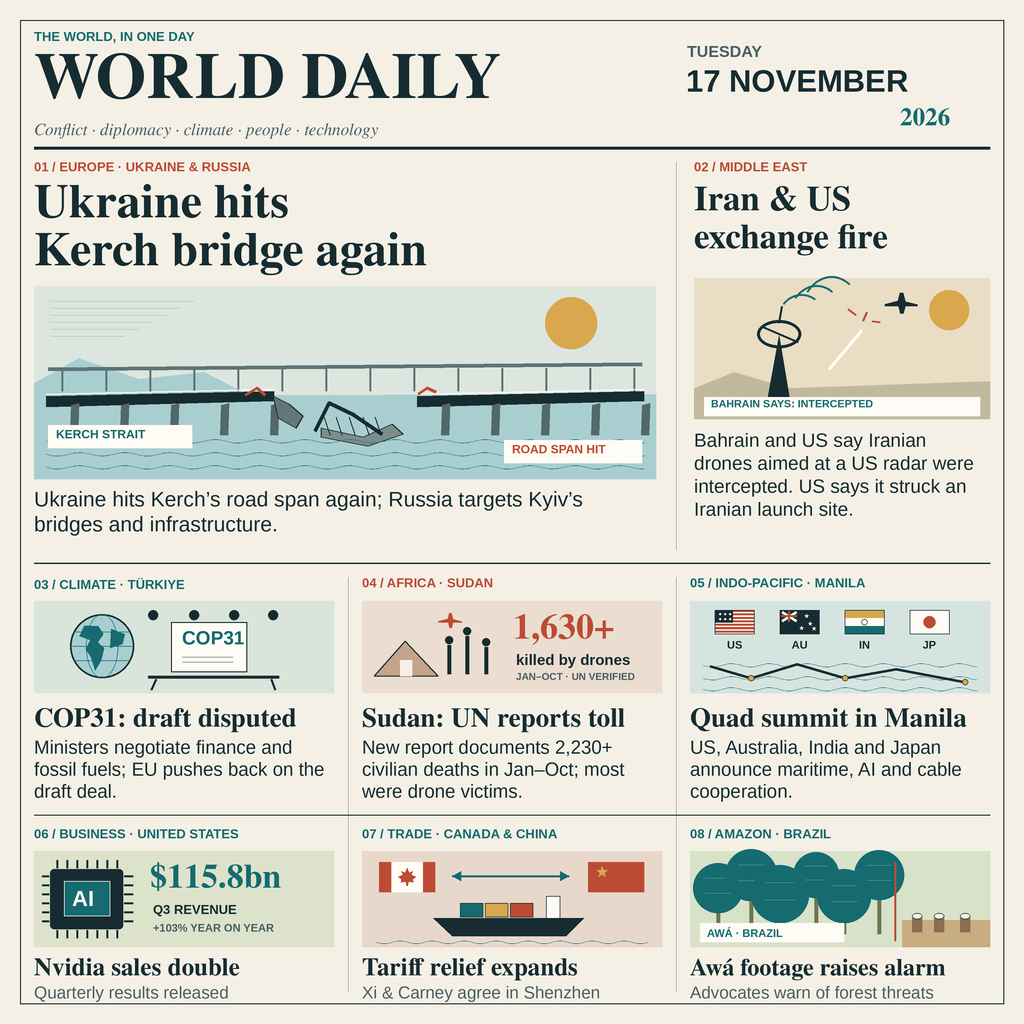
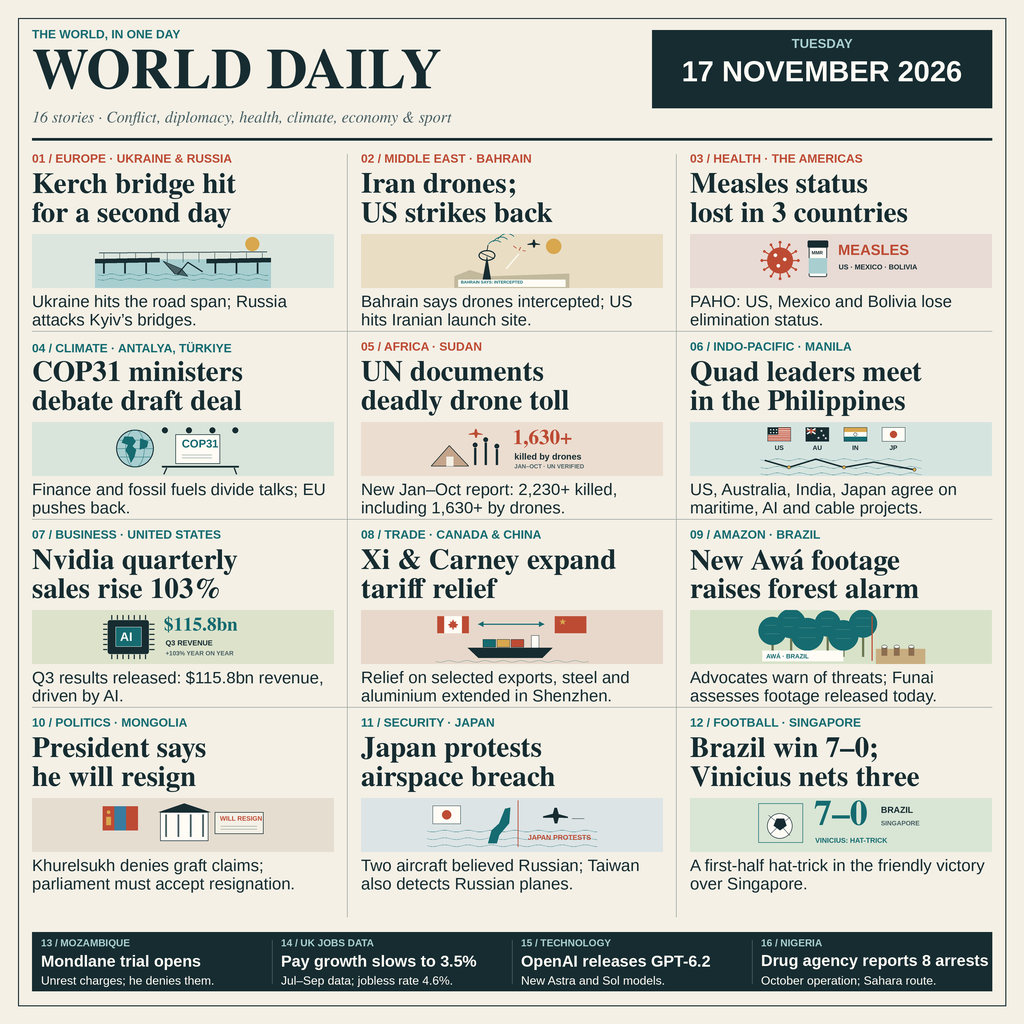
Broaden daily front page to sixteen sourced stories

diff --git a/render.py b/render.py
@@ -316,58 +316,188 @@ def forest_scene(x,y,w,h):
     text(x+17,y+76,'AWÁ · BRAZIL',11,'bold',TEAL)
 
 
-# One typographic system and aligned newspaper columns.
-box((20,20,1004,1004),None,INK,1)
-category(34,32,'THE WORLD, IN ONE DAY')
-text(34,53,'WORLD DAILY',65,'title')
-text(687,46,'TUESDAY',16,'bold',MUTED)
-text(686,70,'17 NOVEMBER',31,'bold')
-text(900,108,'2026',25,'title',TEAL)
-text(34,123,'Conflict · diplomacy · climate · people · technology',17,'italic',MUTED)
-line([(34,148),(990,148)],INK,3)
+def small_bridge(x,y,w,h):
+    box((x,y,x+w,y+h), '#DDE6DE')
+    sun(x+w-32,y+17,12)
+    box((x,y+43,x+w,y+h),SEA)
+    line([(x+7,y+32),(x+w-7,y+30)],MUTED,2)
+    for xx in range(15,int(w),27):
+        line([(x+xx,y+32),(x+xx,y+48)],MUTED,1)
+    for a,b in [(0,110),(190,w)]:
+        line([(x+a,y+46),(x+b,y+44)],INK,8)
+        for xx in range(a+15,int(b),36):
+            line([(x+xx,y+49),(x+xx,y+67)],INK,3)
+    poly([(x+116,y+46),(x+147,y+59),(x+158,y+72),
+          (x+136,y+68)],MUTED,INK)
+    line([(x+140,y+69),(x+158,y+48),(x+183,y+64)],INK,2)
+    for yy in [69,77]:wave(x+5,y+yy,w-10,TEAL,1.5,31,.7)
 
-category(34,162,'01 / EUROPE · UKRAINE & RUSSIA',RED)
-text(34,184,'Ukraine hits',48,'title')
-text(34,232,'Kerch bridge again',48,'title')
-bridge_scene(34,286,622,193)
-paragraph(34,491,'Ukraine hits Kerch’s road span again; Russia targets Kyiv’s bridges and infrastructure.',622,21,25)
 
-line([(676,162),(676,550)],RULE,.8)
-category(694,162,'02 / MIDDLE EAST',RED)
-text(694,186,'Iran & US',35,'title')
-text(694,224,'exchange fire',35,'title')
-gulf_scene(694,278,296,141)
-paragraph(694,433,'Bahrain and US say Iranian drones aimed at a US radar were intercepted. US says it struck an Iranian launch site.',294,19,23)
+def health_scene(x,y,w,h):
+    box((x,y,x+w,y+h),'#E8DAD4')
+    # Virus symbol and a vaccine vial, not a clinical reconstruction.
+    cx,cy=x+46,y+45
+    for a in range(12):
+        ang=a*pi/6
+        line([(cx+cos(ang)*21,cy+sin(ang)*21),
+              (cx+cos(ang)*31,cy+sin(ang)*31)],RED,2)
+        sun(cx+cos(ang)*31,cy+sin(ang)*31,2.3,RED)
+    ellipse((cx-22,cy-22,cx+22,cy+22),RED)
+    for a,b in [(-8,-9),(8,-2),(-3,9)]:sun(cx+a,cy+b,3,WHITE)
+    box((x+95,y+16,x+126,y+73),WHITE,INK,1.2,radius=3)
+    box((x+93,y+11,x+128,y+23),INK,radius=2)
+    box((x+95,y+41,x+126,y+67),SEA)
+    text(x+100,y+29,'MMR',8,'bold')
+    text(x+145,y+18,'MEASLES',25,'bold',RED)
+    text(x+146,y+52,'US · MEXICO · BOLIVIA',12,'bold')
 
-line([(34,563),(990,563)],INK,1.5)
-colx=[34,362,690]
-for xx in [348,676]:line([(xx,577),(xx,992)],RULE,.8)
-category(34,578,'03 / CLIMATE · TÜRKIYE')
-category(362,578,'04 / AFRICA · SUDAN',RED)
-category(690,578,'05 / INDO-PACIFIC · MANILA')
-cop_scene(34,601,300,92)
-sudan_scene(362,601,300,92)
-quad_scene(690,601,300,92)
-text(34,708,'COP31: draft disputed',27,'title')
-paragraph(34,740,'Ministers negotiate finance and fossil fuels; EU pushes back on the draft deal.',300,18.5,22)
-text(362,708,'Sudan: UN reports toll',27,'title')
-paragraph(362,740,'New report documents 2,230+ civilian deaths in Jan–Oct; most were drone victims.',300,18.5,22)
-text(690,708,'Quad summit in Manila',27,'title')
-paragraph(690,740,'US, Australia, India and Japan announce maritime, AI and cable cooperation.',300,18.5,22)
 
-line([(34,815),(990,815)],INK,1)
-category(34,829,'06 / BUSINESS · UNITED STATES')
-category(362,829,'07 / TRADE · CANADA & CHINA')
-category(690,829,'08 / AMAZON · BRAZIL')
-chip_scene(34,851,300,96)
-trade_scene(362,851,300,96)
-forest_scene(690,851,300,96)
-text(34,958,'Nvidia sales double',25,'title')
-text(362,958,'Tariff relief expands',25,'title')
-text(690,958,'Awá footage raises alarm',24,'title')
-text(34,986,'Quarterly results released',17,'sans',MUTED)
-text(362,986,'Xi & Carney agree in Shenzhen',17,'sans',MUTED)
-text(690,986,'Advocates warn of forest threats',17,'sans',MUTED)
+def mongolia_scene(x,y,w,h):
+    box((x,y,x+w,y+h),'#E5DDD0')
+    # Mongolian flag in the country's conventional three vertical bands.
+    for a,c in enumerate([RED,'#397CA0',RED]):
+        box((x+13+a*20,y+14,x+33+a*20,y+55),c)
+    sun(x+23,y+24,3,GOLD)
+    box((x+19,y+32,x+27,y+46),GOLD)
+    box((x+111,y+24,x+193,y+73),WHITE,INK,1)
+    poly([(x+108,y+24),(x+152,y+9),(x+197,y+24)],INK)
+    for xx in [121,142,163,184]:
+        line([(x+xx,y+28),(x+xx,y+66)],MUTED,3)
+    box((x+204,y+24,x+287,y+61),PAPER,INK,1)
+    text(x+213,y+31,'WILL RESIGN',11,'bold',RED)
+    for yy in [48,53]:line([(x+214,y+yy),(x+276,y+yy)],RULE,1)
+
+
+def japan_scene(x,y,w,h):
+    box((x,y,x+w,y+h),'#DCE4E5')
+    flag(x+15,y+13,47,31,'JP')
+    for yy in [56,69,81]:wave(x+5,y+yy,w-10,TEAL,1.5,40,.7)
+    poly([(x+109,y+77),(x+115,y+55),(x+128,y+43),
+          (x+138,y+18),(x+147,y+16),(x+145,y+43),
+          (x+128,y+63),(x+124,y+77)],TEAL)
+    line([(x+160,y+4),(x+160,y+83)],RED,1.3)
+    plane(x+224,y+31,.6)
+    line([(x+273,y+35),(x+252,y+35)],MUTED,1)
+    text(x+177,y+63,'JAPAN PROTESTS',12,'bold',RED)
+
+
+def football_scene(x,y,w,h):
+    box((x,y,x+w,y+h),'#D9E5D5')
+    box((x+9,y+9,x+85,y+76),None,TEAL,1)
+    ellipse((x+24,y+26,x+67,y+69),WHITE,INK,1)
+    poly([(x+40,y+35),(x+53,y+35),(x+57,y+47),
+          (x+46,y+55),(x+35,y+47)],INK)
+    for a,b in [(26,29),(63,33),(30,61),(63,64)]:
+        line([(x+a,y+b),(x+46,y+45)],INK,.8)
+    text(x+104,y+4,'7–0',61,'title',TEAL)
+    text(x+218,y+15,'BRAZIL',15,'bold')
+    text(x+218,y+39,'SINGAPORE',11,'bold',MUTED)
+    text(x+106,y+68,'VINICIUS: HAT-TRICK',12,'bold',TEAL)
+
+
+def illustration(scene,x,y,w,h,native_w=300,native_h=92):
+    """Render one original diagram separately to keep panels inside their bounds."""
+    global canvas,d
+    page,page_draw=canvas,d
+    canvas=Image.new('RGB',(native_w*SCALE,native_h*SCALE),PAPER)
+    d=ImageDraw.Draw(canvas)
+    scene(0,0,native_w,native_h)
+    # Preserve circles, flags and lettering when fitting the short picture strip.
+    factor=min(w/native_w,h/native_h)
+    tile=canvas.resize((round(native_w*factor*SCALE),
+                        round(native_h*factor*SCALE)),Image.Resampling.LANCZOS)
+    strip=Image.new('RGB',(round(w*SCALE),round(h*SCALE)),canvas.getpixel((0,0)))
+    strip.paste(tile,((strip.width-tile.width)//2,(strip.height-tile.height)//2))
+    canvas,d=page,page_draw
+    canvas.paste(strip,(round(x*SCALE),round(y*SCALE)))
+
+
+def feature(x,y,number,region,headlines,scene,caption,color=TEAL,
+            native_h=92):
+    text(x,y,f'{number:02d} / {region}',12,'bold',color)
+    for i,headline in enumerate(headlines):
+        assert width(headline,29,'title') <= 302, headline
+        text(x,y+19+i*29,headline,29,'title')
+    illustration(scene,x,y+80,302,54,native_h=native_h)
+    bottom=paragraph(x,y+141,caption,302,16.5,18.5)
+    assert bottom <= y+181, (number,bottom-y)
+
+
+# A compact masthead leaves room for twelve illustrated stories, each with the
+# same readable two-line headline and a short account of what changed today.
+box((18,18,1006,1006),None,INK,1)
+text(32,30,'THE WORLD, IN ONE DAY',12,'bold',TEAL)
+text(32,49,'WORLD DAILY',57,'title')
+box((652,30,992,108),INK)
+centered(822,39,'TUESDAY',13,'bold',SEA)
+centered(822,61,'17 NOVEMBER 2026',29,'bold',WHITE)
+text(32,111,'16 stories · Conflict, diplomacy, health, climate, economy & sport',16,'italic',MUTED)
+line([(32,139),(992,139)],INK,2.5)
+
+xs=[32,361,690]
+ys=[154,342,530,718]
+for xx in [347,676]:line([(xx,154),(xx,917)],RULE,.7)
+for yy in [331,519,707]:line([(32,yy),(992,yy)],RULE,.8)
+
+feature(xs[0],ys[0],1,'EUROPE · UKRAINE & RUSSIA',
+        ['Kerch bridge hit','for a second day'],small_bridge,
+        'Ukraine hits the road span; Russia attacks Kyiv’s bridges.',RED)
+feature(xs[1],ys[0],2,'MIDDLE EAST · BAHRAIN',
+        ['Iran drones;','US strikes back'],gulf_scene,
+        'Bahrain says drones intercepted; US hits Iranian launch site.',RED,141)
+feature(xs[2],ys[0],3,'HEALTH · THE AMERICAS',
+        ['Measles status','lost in 3 countries'],health_scene,
+        'PAHO: US, Mexico and Bolivia lose elimination status.',RED)
+
+feature(xs[0],ys[1],4,'CLIMATE · ANTALYA, TÜRKIYE',
+        ['COP31 ministers','debate draft deal'],cop_scene,
+        'Finance and fossil fuels divide talks; EU pushes back.')
+feature(xs[1],ys[1],5,'AFRICA · SUDAN',
+        ['UN documents','deadly drone toll'],sudan_scene,
+        'New Jan–Oct report: 2,230+ killed, including 1,630+ by drones.',RED)
+feature(xs[2],ys[1],6,'INDO-PACIFIC · MANILA',
+        ['Quad leaders meet','in the Philippines'],quad_scene,
+        'US, Australia, India, Japan agree on maritime, AI and cable projects.')
+
+feature(xs[0],ys[2],7,'BUSINESS · UNITED STATES',
+        ['Nvidia quarterly','sales rise 103%'],chip_scene,
+        'Q3 results released: $115.8bn revenue, driven by AI.',native_h=96)
+feature(xs[1],ys[2],8,'TRADE · CANADA & CHINA',
+        ['Xi & Carney expand','tariff relief'],trade_scene,
+        'Relief on selected exports, steel and aluminium extended in Shenzhen.',native_h=96)
+feature(xs[2],ys[2],9,'AMAZON · BRAZIL',
+        ['New Awá footage','raises forest alarm'],forest_scene,
+        'Advocates warn of threats; Funai assesses footage released today.',native_h=96)
+
+feature(xs[0],ys[3],10,'POLITICS · MONGOLIA',
+        ['President says','he will resign'],mongolia_scene,
+        'Khurelsukh denies graft claims; parliament must accept resignation.')
+feature(xs[1],ys[3],11,'SECURITY · JAPAN',
+        ['Japan protests','airspace breach'],japan_scene,
+        'Two aircraft believed Russian; Taiwan also detects Russian planes.')
+feature(xs[2],ys[3],12,'FOOTBALL · SINGAPORE',
+        ['Brazil win 7–0;','Vinicius nets three'],football_scene,
+        'A first-half hat-trick in the friendly victory over Singapore.')
+
+# Four restrained briefs add distinct news without competing with the headline
+# grid. Every line names a concrete change or identifies a newly released report.
+box((32,932,992,991),INK)
+briefs=[
+    ('13 / MOZAMBIQUE','Mondlane trial opens',
+     'Unrest charges; he denies them.'),
+    ('14 / UK JOBS DATA','Pay growth slows to 3.5%',
+     'Jul–Sep data; jobless rate 4.6%.'),
+    ('15 / TECHNOLOGY','OpenAI releases GPT-6.2',
+     'New Astra and Sol models.'),
+    ('16 / NIGERIA','Drug agency reports 8 arrests',
+     'October operation; Sahara route.'),
+]
+for i,(label,headline,detail) in enumerate(briefs):
+    xx=41+i*240
+    text(xx,939,label,10,'bold',SEA)
+    text(xx,955,headline,16,'bold',WHITE)
+    text(xx,976,detail,12,'sans',WHITE)
+    if i:line([(xx-9,940),(xx-9,984)],MUTED,.8)
 
 canvas.resize((1024,1024),Image.Resampling.LANCZOS).save(ROOT/'entry.png', optimize=True)
 print('Rendered', ROOT/'entry.png')

diff --git a/SOURCES.md b/SOURCES.md
@@ -82,12 +82,67 @@ location. The drawing represents a threatened forest, not the footage itself.
 
 - [Reuters, syndicated by Investing.com](https://www.investing.com/news/world-news/rare-images-of-isolatedindigenous-group-in-brazil-highlight-threats-5034223)
 
-## Short briefs
+## Mongolia: resignation announced
 
 - Mongolia's President Khurelsukh said on Tuesday that he would resign after
   corruption accusations, which he denied. Parliamentary acceptance was still
   required. [Associated Press](https://apnews.com/article/mongolia-president-corruption-allegations-9542b2bf7536db6ae65b371aac07bbf4)
+
+## Japan and Taiwan: aircraft incidents
+
 - Japan protested after two aircraft believed to be Russian breached its
-  airspace. [Reuters, syndicated by ThePrint](https://theprint.in/world/taiwan-japan-flag-incursions-by-russian-aircraft-as-putin-set-to-arrive-in-china/3100646/)
+  airspace near Okinoshima. Taiwan separately detected two Russian aircraft
+  off its east coast. The image distinguishes Taiwan's detection from Japan's
+  reported airspace violation; an air defence identification zone is not the
+  same thing as sovereign airspace.
+  [Reuters, syndicated by ThePrint](https://theprint.in/world/taiwan-japan-flag-incursions-by-russian-aircraft-as-putin-set-to-arrive-in-china/3100646/)
+
+## OpenAI: new models released
+
 - OpenAI released GPT-6.2 Astra and Sol on 17 November.
   [OpenAI system card](https://deploymentsafety.openai.com/gpt-6-2-astra-sol)
+
+## Health: measles elimination status lost
+
+PAHO announced on 17 November that the United States, Mexico and Bolivia had
+lost measles elimination status following sustained transmission. This is a
+change in designation, not a claim that measles first arrived on this date.
+The image names all three countries and attributes the announcement to PAHO.
+
+- [Reuters, syndicated by Investing.com](https://www.investing.com/news/general-news/us-loses-measles-elimination-status-after-nearly-three-decades-5033589)
+- [Associated Press](https://apnews.com/article/e11d845ff206957fb568f52d71383a41)
+
+## Sport: Brazil defeats Singapore
+
+Brazil beat Singapore 7–0 in a friendly on Tuesday. Vinicius Jr completed his
+hat-trick in the first half. The image does not describe it as a tournament
+final or a World Cup match.
+
+- [Reuters, syndicated by Fullview](https://fullview.co.za/vinicius-nets-first-half-hat-trick-as-brazil-crush-singapore-7-0/)
+
+## Mozambique: opposition leader's trial begins
+
+Venancio Mondlane went on trial on 17 November on charges of inciting terrorism
+and civil disobedience over unrest after the disputed 2024 election. He denies
+the charges and describes the case as politically motivated. The image says
+the trial opened; it does not imply a conviction or that the unrest happened today.
+
+- [Reuters, syndicated by Internazionale](https://www.internazionale.it/ultime-notizie-reuters/2026/11/17/mozambique-s-main-opposition-leader-goes-on-trial-over-post-election-unrest)
+
+## UK: labour market figures released
+
+The ONS release dated 17 November reports regular annual pay growth of 3.5%
+and unemployment of 4.6% for July–September. The brief labels the data period.
+The ONS cautions that survey rotation partly explains the employment and
+unemployment movements; the image draws no conclusion about a jobs boom.
+
+- [Office for National Statistics, November 2026 bulletin](https://www.ons.gov.uk/employmentandlabourmarket/peopleinwork/employmentandemployeetypes/bulletins/uklabourmarket/november2026)
+
+## Nigeria: drug agency reports arrests
+
+Reuters reported on 17 November that the NDLEA said it dismantled a cocaine
+trafficking syndicate routing drugs through the Sahara to Europe. The eight
+suspected couriers were arrested in Lagos and Kano on 30–31 October. The brief
+explicitly labels this as an agency report about an October operation.
+
+- [Reuters, 17 November](https://www.reuters.com/world/africa/nigeria-arrests-eight-cocaine-gang-routing-drugs-europe-via-sahara-2026-11-17/)

diff --git a/README.md b/README.md
@@ -6,13 +6,15 @@
 
 An original illustrated newspaper for Tuesday, 17 November 2026, entered in
 [make.fun's world news image bounty](https://make.fun/bounty/news-image-20261117).
-Eight stories cover Europe, the Middle East, climate negotiations, Sudan,
-Indo-Pacific diplomacy, technology, trade and the Amazon.
+Sixteen stories cover Europe, the Middle East, Africa, the Americas and Asia:
+conflict, diplomacy, public health, climate, politics, jobs, technology, trade,
+the Amazon and football.
 
 ![World Daily news illustration](entry.png)
 
-The artwork uses a warm paper palette, aligned newspaper columns, exact
-typography and original geometric illustrations. The captions distinguish
+The artwork uses a warm paper palette, twelve aligned illustrated panels,
+four short briefs, exact typography and original geometric illustrations.
+The date and main headlines remain clear in a 300-pixel preview. The captions distinguish
 reported claims from verified events and a newly released report from its
 historical reporting period. [SOURCES.md](SOURCES.md) records the reporting
 sources and those distinctions. No news photographs or copied artwork are used.
